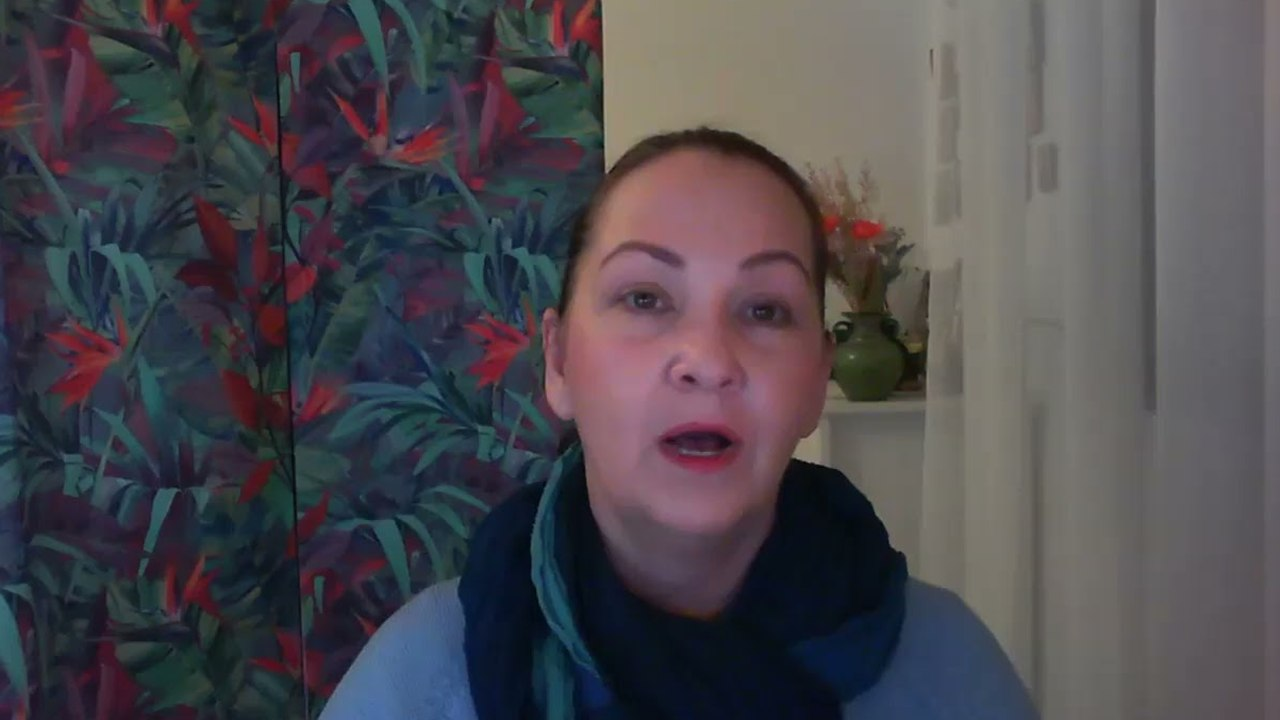
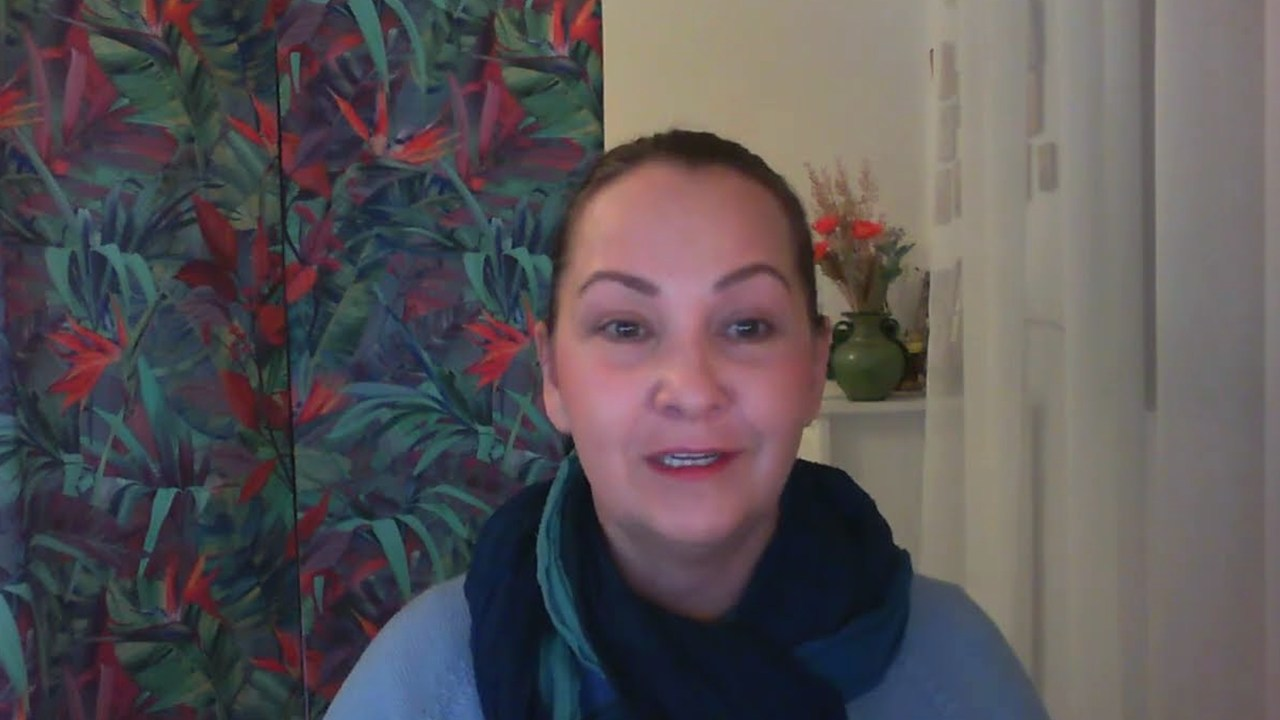
v17: switch Hero video preview to warmer smiling YouTube frame (maxres3) with gentle light lift

diff --git a/index.html b/index.html
@@ -94,7 +94,7 @@
         <div class="hero-right">
           <button class="hero-video-card" type="button" data-open-video aria-label="Смотреть приветственное видео О моей РаЗУМной школе, 3 минуты">
             <span class="hero-portrait-photo" style="display: block;">
-              <img src="img/video-preview.jpg?v=16" alt="Кадр из приветственного видео Марины Шультайс «О моей РаЗУМной школе»" width="1280" height="720">
+              <img src="img/video-preview.jpg?v=17" alt="Кадр из приветственного видео Марины Шультайс «О моей РаЗУМной школе»" width="1280" height="720">
               <span class="hero-video-duration" aria-hidden="true">Видео · 3:01</span>
               <span class="hero-center-play" aria-hidden="true">
                 <span class="hero-play-disc">
